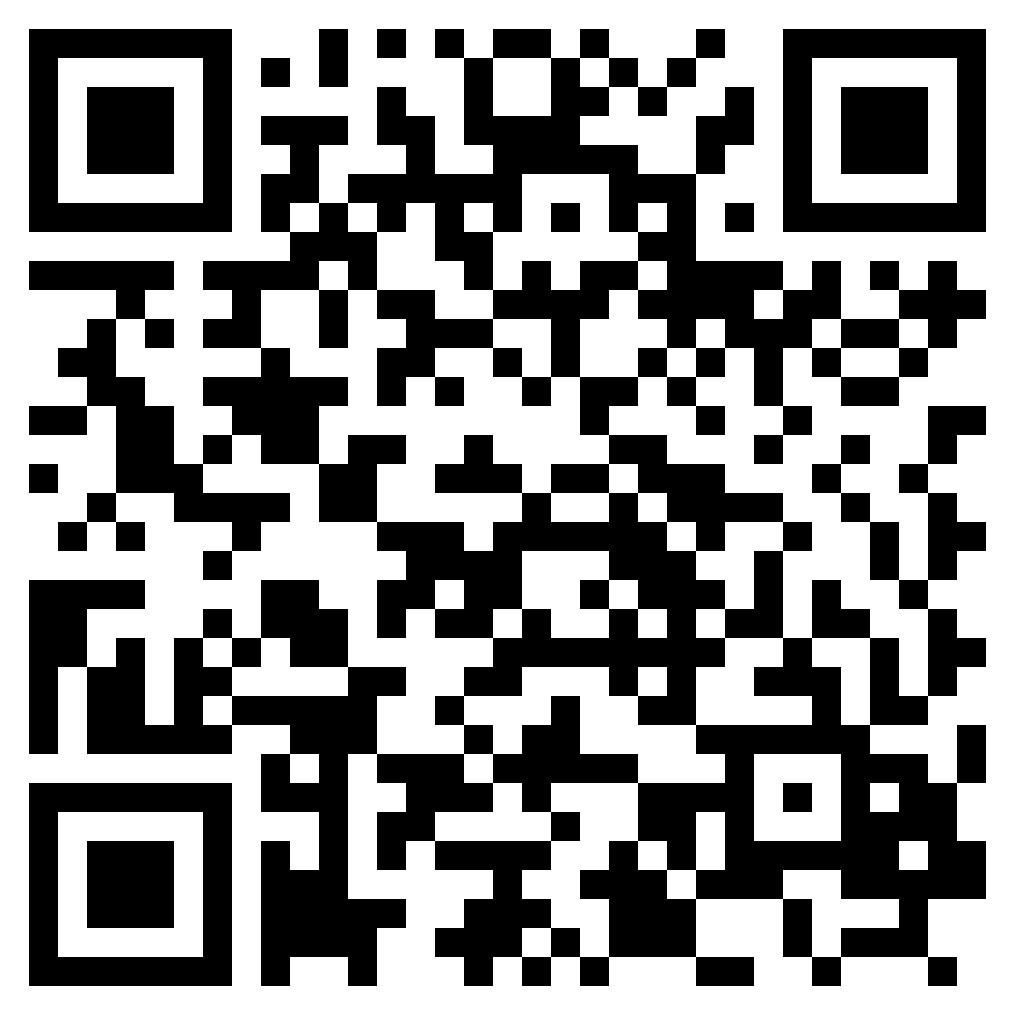
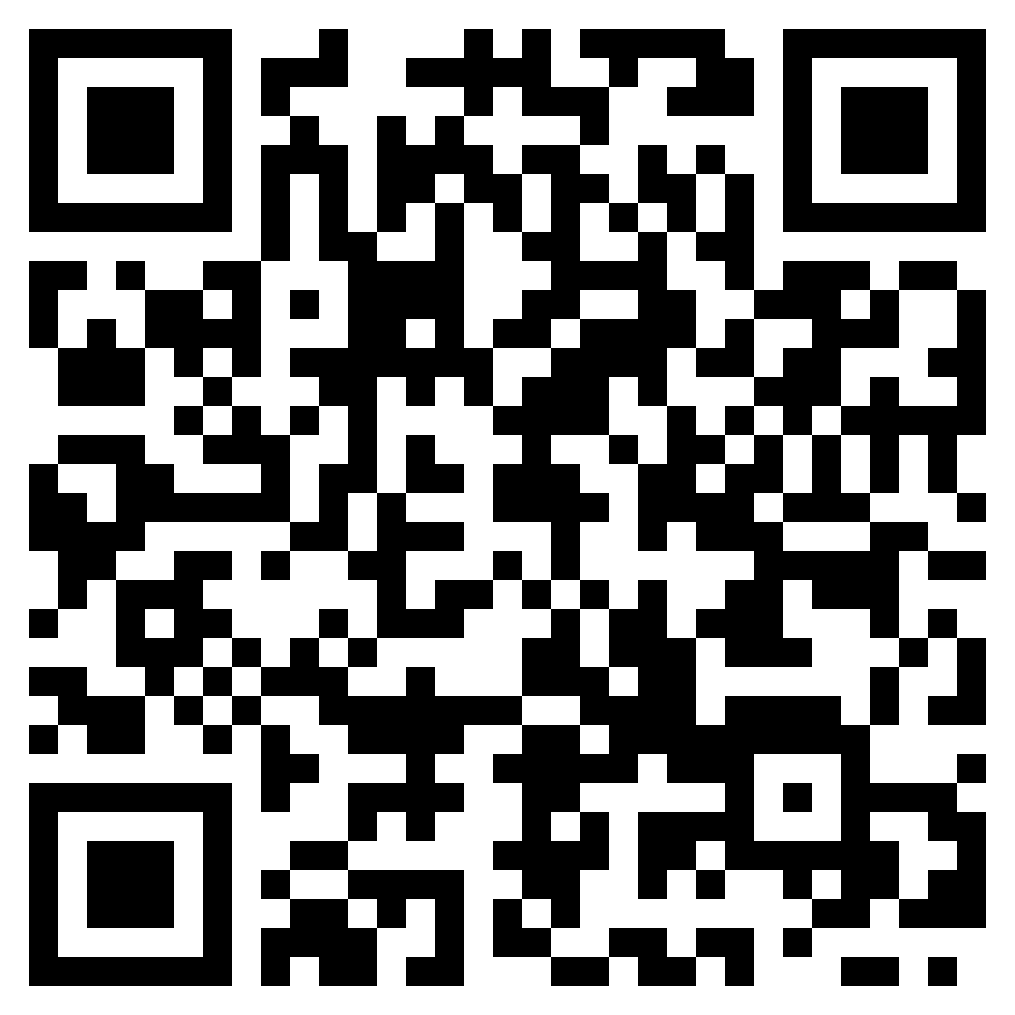
qr and name change

diff --git a/index.html b/index.html
@@ -28,7 +28,7 @@
                         <td class="details-td" colspan="4">
                             <img alt="#" class="profile-image" src="./ashish.jpg">
                             <br>
-                            <label class="name"><b>ASHISH GUPTA</b></label><br>
+                            <label class="name"><b>UJJWAL KUMAR</b></label><br>
                             <label class="name"><b>Student All route AC/Non AC</b></label><br>
                             <label class="pass-number"><b>Bus Pass No. </b><b id="blink"
                                     style="opacity: 0;">7502082344797</b></label><br>
